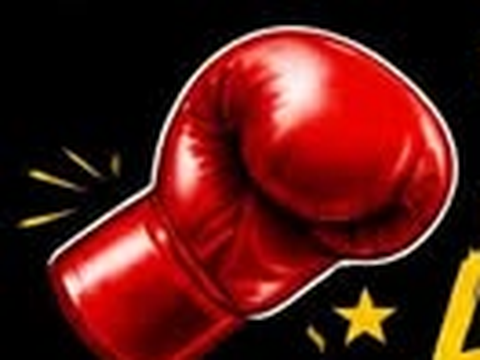
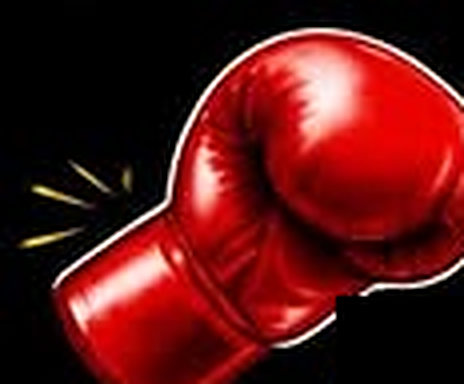
Fix broken boxing-glove accent on menu page header
Two stacked bugs were making this render as a tall, blurry,
stretched box with a stray star and text sliver baked in:

1. images/menu-glove-detail.png was a bad crop — it caught a
   decorative star and the edge of the "LOADED" headline text from
   the source menu graphic, then got upscaled 3.6x, which blurred
   it further. Recropped tighter around just the glove, painted out
   the one remaining stray star with a black patch (matches the
   flat black background exactly), and sharpened after a more
   modest upscale.
2. .page-header-accent img only overrode `width` in CSS. The
   <img>'s HTML height="360" attribute was still being applied as a
   literal pixel height by the browser, since nothing overrode it —
   so the correctly-proportioned image was still being squashed
   into a portrait box. Added `height: auto`.

Updated menu.html's width/height attributes to match the new crop
(464x384). Verified on desktop and mobile.

Claude-Session: https://claude.ai/code/session_01545azD4une6GcMNpcLTbs4

diff --git a/menu.html b/menu.html
@@ -57,7 +57,7 @@
         <!-- Cropped detail of the boxing glove graphic from menu-graphic.png, per brief 4.7 -->
         <picture>
           <source srcset="images/menu-glove-detail.webp" type="image/webp">
-          <img src="images/menu-glove-detail.png" alt="Red boxing glove graphic from Ko's Loaded Fries' own menu artwork" width="480" height="360">
+          <img src="images/menu-glove-detail.png" alt="Red boxing glove graphic from Ko's Loaded Fries' own menu artwork" width="464" height="384">
         </picture>
       </div>
     </div>

diff --git a/styles.css b/styles.css
@@ -813,6 +813,7 @@ section { padding-block: clamp(3rem, 6vw, 5rem); }
 
 .page-header-accent img {
   width: 140px;
+  height: auto;
   filter: drop-shadow(0 8px 18px rgba(0,0,0,0.5));
 }
 
